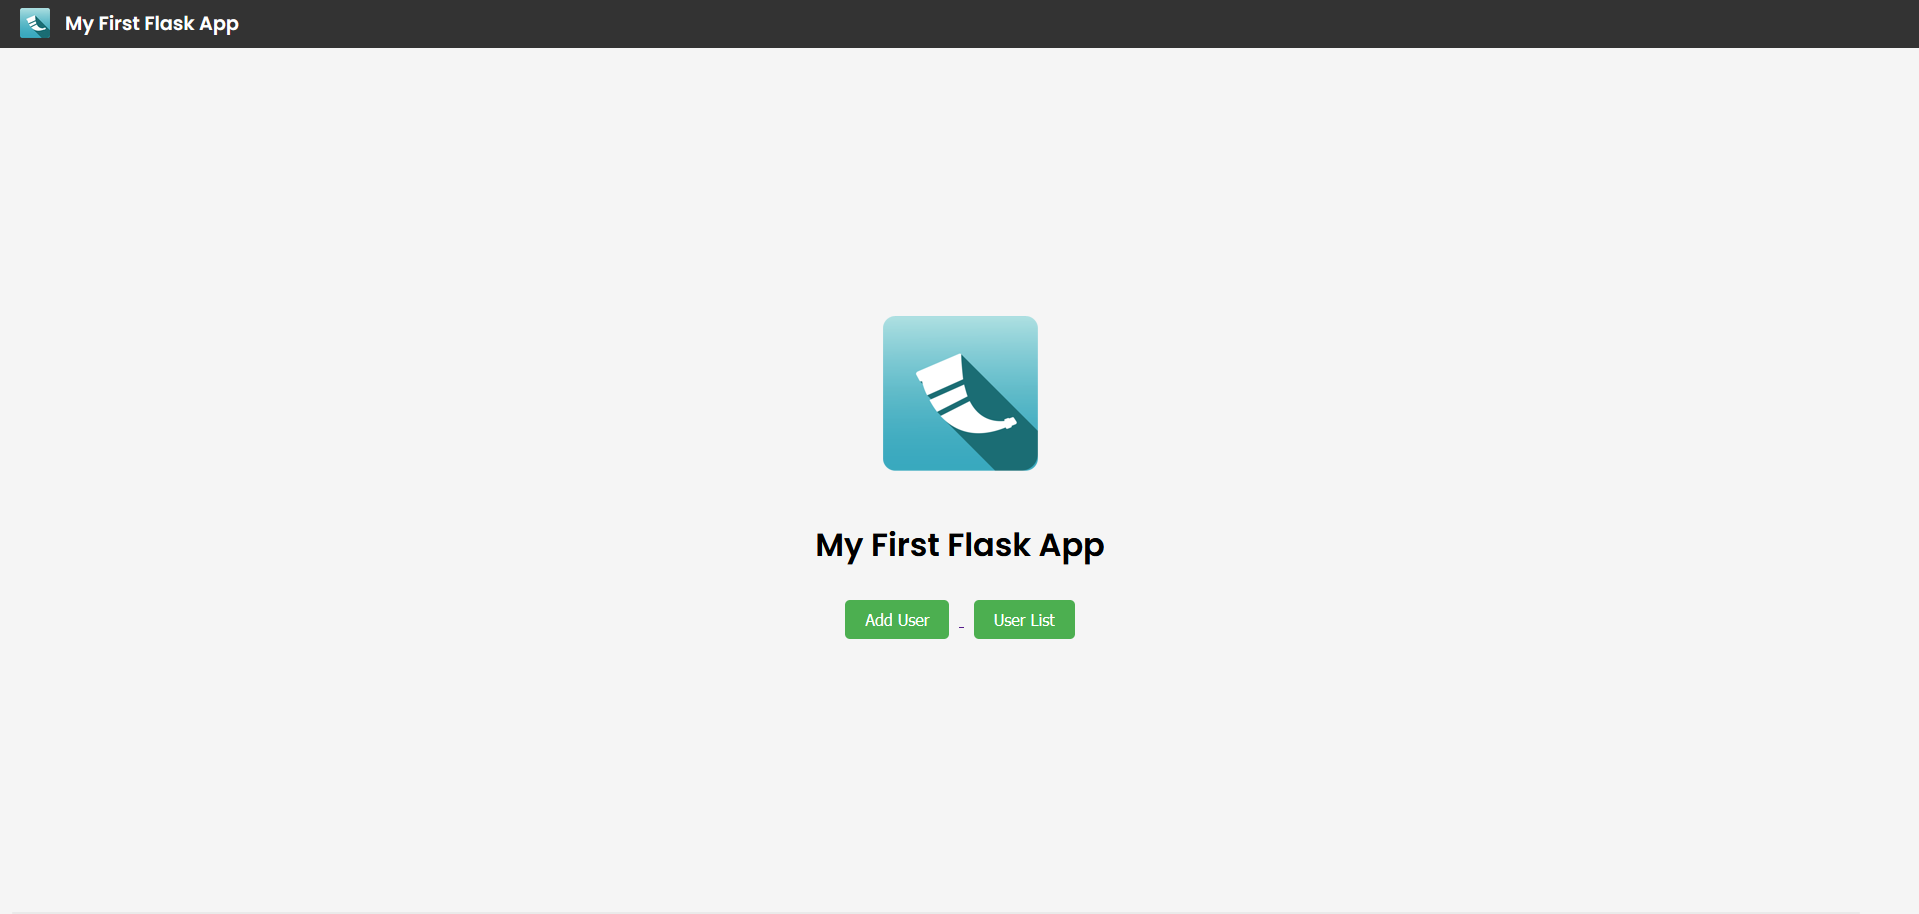
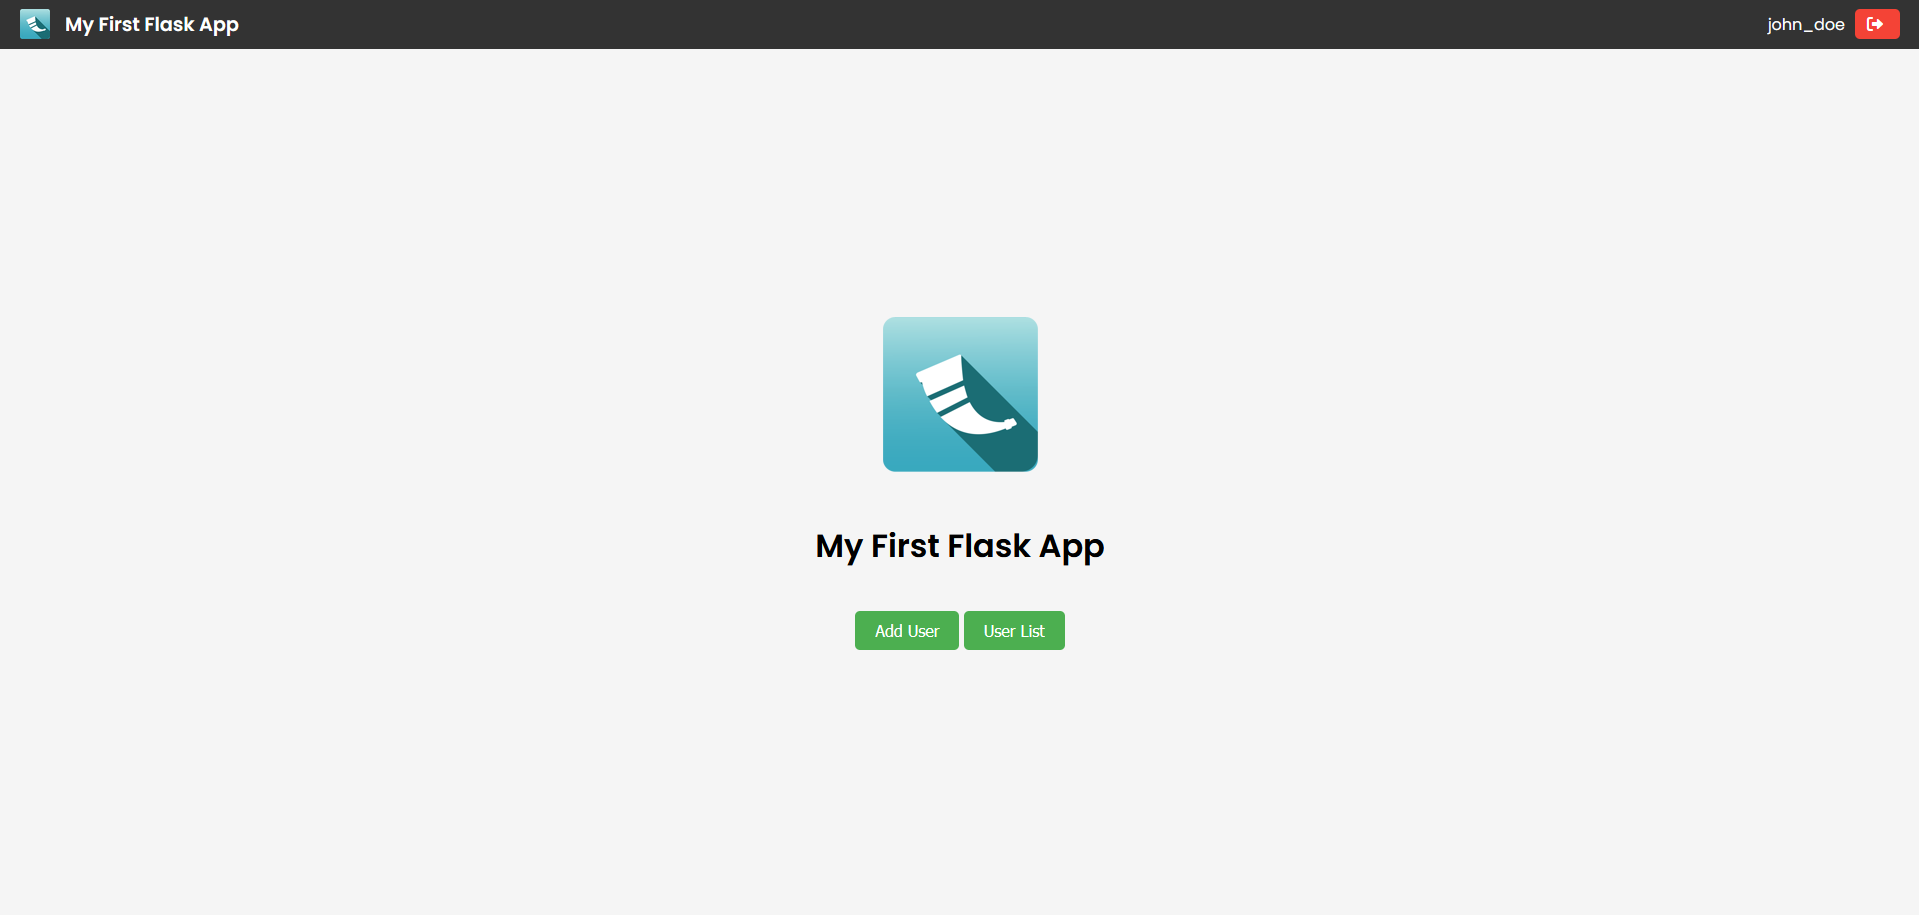
Updated readme and screenshot

diff --git a/readme.md b/readme.md
@@ -11,6 +11,9 @@ This project is a simple Flask application built to learn the basics of the Flas
 - Using SQLite as the database.
 - Handling forms and validating data with Flask-WTF and SQLAlchemy.
 - Implementing database models with SQLAlchemy.
+- Implementing login/logout functionality with session management.
+
+---
 
 ![Front-end Screenshot](app/static/screenshot.png)
 
@@ -31,7 +34,9 @@ This project is a simple Flask application built to learn the basics of the Flas
 
 ### **Features**
 
-- **User Management**: Users can be added through a web form, and a list of all users can be viewed.
+- **User Management**: Users can be added through a web form, and a list of all users can be viewed (accessible only when logged in).
+- **Login/Logout**: Users can log in and log out. When logged in, the username is displayed on the top banner, and when logged out, a login button is shown.
+- **Session Management**: Flask-Login is used to manage user sessions.
 - **API**: A simple REST API allows adding users via POST requests and fetching the list of users via GET requests.
 - **Email and Username Validation**:
   - Usernames are validated for uniqueness, and can only contain letters, numbers, and certain special characters.
@@ -110,6 +115,7 @@ This project is a simple Flask application built to learn the basics of the Flas
 - **Flask**: Web framework used to build the application.
 - **SQLAlchemy**: ORM used to interact with the SQLite database.
 - **Flask-WTF**: Form handling and validation library.
+- **Flask-Login**: User session management and authentication.
 - **Werkzeug**: Used for password hashing.
 - **SQLite**: Lightweight database for storing user information.
 - **Flask-CORS**: To enable CORS support.
@@ -125,10 +131,12 @@ Flask-practice-project/
 │   ├── routes.py            # Contains the app's routes and API endpoints
 │   ├── models.py            # Defines the User model for SQLAlchemy
 │   ├── forms.py             # Contains form validation logic using Flask-WTF
+│   ├── auth.py              # Handles login/logout and user authentication
 │   ├── templates/           # Contains HTML templates
 │   │   ├── base.html        # Base template
 │   │   ├── index.html       # Home page
 │   │   ├── add_user.html    # Form to add a new user
+│   │   ├── login.html       # Login page
 │   │   └── list_users.html  # Displays a list of all users
 │   ├── static/              # Contains static files (CSS, images)
 │   └── database.py          # Initializes the SQLite database
@@ -146,13 +154,27 @@ Flask-practice-project/
 
 1. When the application starts, the SQLite database is automatically created in the `instance` folder (if it doesn't already exist).
 2. Users can be added through the `/add_user` page. Their passwords are hashed before being stored in the database.
-3. The `/list_users` page displays all users in the database.
+3. The `/list_users` page is protected and displays all users in the database, but only when the user is logged in.
 4. The API allows for adding users via POST requests and fetching users via GET requests.
+5. Login and logout functionality is implemented using Flask-Login, and error messages are shown below the form fields for unrecognized usernames or incorrect passwords.
 
 ---
 
 ### **Future Improvements**
 
-- Add user authentication and session management.
+- Add user registration and password reset functionality.
+- Implement session expiration after a period of inactivity.
+- Add more advanced features like user roles and permissions.
 - Implement pagination for the user list.
-- Add more advanced features like user profile management.
+
+---
+
+### **Screenshots**
+
+Here are some screenshots of the API tests.
+
+API GET:
+- ![API Test - GET](app/static/API-test-GET.png)
+
+API POST:
+- ![API Test - POST](app/static/API-test-POST.png)
